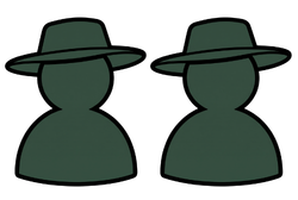
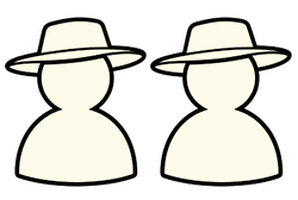
Pase 323: circulo de la foto del header 1px mas grande

diff --git a/src/components/Lobby/Lobby.js b/src/components/Lobby/Lobby.js
@@ -394,12 +394,7 @@ useEffect(() => {
                       alt=""
                       style={{
                         ...estilos.iconoModoCompacto,
-                        // El ícono "inactivo" está pintado en verde oscuro
-                        // (pensado para el fondo claro semitransparente de
-                        // antes) — contra el cuero casi negro nuevo se
-                        // perdía por completo; este filtro lo levanta sin
-                        // necesitar una 4ta variante de ícono por modo.
-                        ...(modoRapido !== m ? { filter: 'brightness(2.4) saturate(0.7)' } : {}),
+                        // Pase 322: los PNG inactivos ya vienen pintados en beige (#FFFBEB), sin filtro.
                       }}
                     />
                     {m}
@@ -565,6 +560,7 @@ useEffect(() => {
             placeholder="Código de sala"
             value={codigoUnirse}
             onChange={(e) => setCodigoUnirse(e.target.value.toUpperCase())}
+            className="ts-input-codigo"
             style={{ ...estilos.inputCuero, flex: 1 }}
           />
           <button
@@ -861,9 +857,10 @@ const estilos = {
   // `tabInactiva` de Torneos.js, en vez del input blanco liso genérico.
   inputCuero: {
     width: '100%', fontFamily: "'Fredoka', sans-serif", fontWeight: 700, fontSize: 16,
-    letterSpacing: 1, color: C.crema, background: 'linear-gradient(180deg, #2a1c12, #1a100a)',
-    border: `2px solid ${C.negroPulido}`, borderRadius: 12, padding: '9px 11px',
-    boxShadow: 'inset 0 3px 6px rgba(0,0,0,0.6), inset 0 -1px 0 rgba(255,255,255,0.05)',
+    letterSpacing: 1, color: '#2C160E', background: '#F3EFE0',
+    // Pase 322: pergamino claro ahuecado (antes caja negra), marco fino café oscuro con sombra interna.
+    border: '1.5px solid #4A2C11', borderRadius: 12, padding: '9px 11px',
+    boxShadow: 'inset 0 3px 5px rgba(74,44,17,0.35), inset 2px 0 3px rgba(74,44,17,0.15)',
   },
   // Indicador "Partida esperando" — mismo criterio visual que los chips
   // de las tarjetas de sala más abajo, para anticipar de un vistazo qué
@@ -969,10 +966,11 @@ const estilos = {
   opcionBtnCompacta: {
     flex: 1, minWidth: 44,
     fontFamily: "'Nunito', sans-serif", fontWeight: 700, fontSize: 13,
-    color: 'rgba(255,248,237,0.6)', background: 'linear-gradient(180deg, #2a1c12, #1a100a)',
+    // Pase 322: madera cálida media (#8B5A2B) con relieve ahuecado suave y texto hueso (#FFFBEB).
+    color: '#FFFBEB', background: '#8B5A2B',
     border: `2px solid ${C.negroPulido}`, borderRadius: 10, padding: '6px 4px', cursor: 'pointer', textAlign: 'center',
     display: 'flex', flexDirection: 'column', alignItems: 'center', justifyContent: 'center', gap: 1,
-    boxShadow: 'inset 0 3px 6px rgba(0,0,0,0.6), inset 0 -1px 0 rgba(255,255,255,0.05)',
+    boxShadow: 'inset 0 3px 5px rgba(74,44,17,0.55), inset 0 -1px 0 rgba(255,255,255,0.12)',
   },
   opcionBtnCompactaActiva: {
     background: `linear-gradient(160deg, ${C.doradoClaro} 0%, ${C.dorado} 100%)`, color: C.chocolate,

diff --git a/src/components/Perfil/rangosUi.js b/src/components/Perfil/rangosUi.js
@@ -19,11 +19,13 @@ const SALDO_CLARO = '#FFE7B3';
 const BASE = '/assets/images/rangos';
 const discoEstilo = ([cx, cy, D]) => {
   const d = D - 5;
+  // Pase 323: el círculo crece 1px (crece centrado: -0.5px a izquierda/arriba, +1px de ancho/alto)
+  // para que la foto rellene del todo el hueco del aro.
   return {
-    left: `${(((cx - d / 2) / 492) * 100).toFixed(2)}%`,
-    top: `${(((cy - d / 2) / 234) * 100).toFixed(2)}%`,
-    width: `${((d / 492) * 100).toFixed(2)}%`,
-    height: `${((d / 234) * 100).toFixed(2)}%`,
+    left: `calc(${(((cx - d / 2) / 492) * 100).toFixed(2)}% - 0.5px)`,
+    top: `calc(${(((cy - d / 2) / 234) * 100).toFixed(2)}% - 0.5px)`,
+    width: `calc(${((d / 492) * 100).toFixed(2)}% + 1px)`,
+    height: `calc(${((d / 234) * 100).toFixed(2)}% + 1px)`,
   };
 };
 const ficha = (slug, hueco, nombreOscuro, saldoOscuro, disco) => ({

diff --git a/src/components/AppShell/app-shell.css b/src/components/AppShell/app-shell.css
@@ -727,4 +727,7 @@
   background: radial-gradient(circle at 35% 30%, var(--ts-dorado-claro), var(--ts-dorado) 60%, var(--ts-dorado-oscuro) 100%);
   border: 2px solid var(--ts-chocolate);
   box-shadow: 0 2px 4px rgba(0,0,0,0.35);
-}
+}
+
+/* Pase 322: placeholder del campo "Código de sala" en café grisáceo, negrita legible. */
+.ts-input-codigo::placeholder { color: #8D7B68; font-weight: 700; opacity: 1; }
